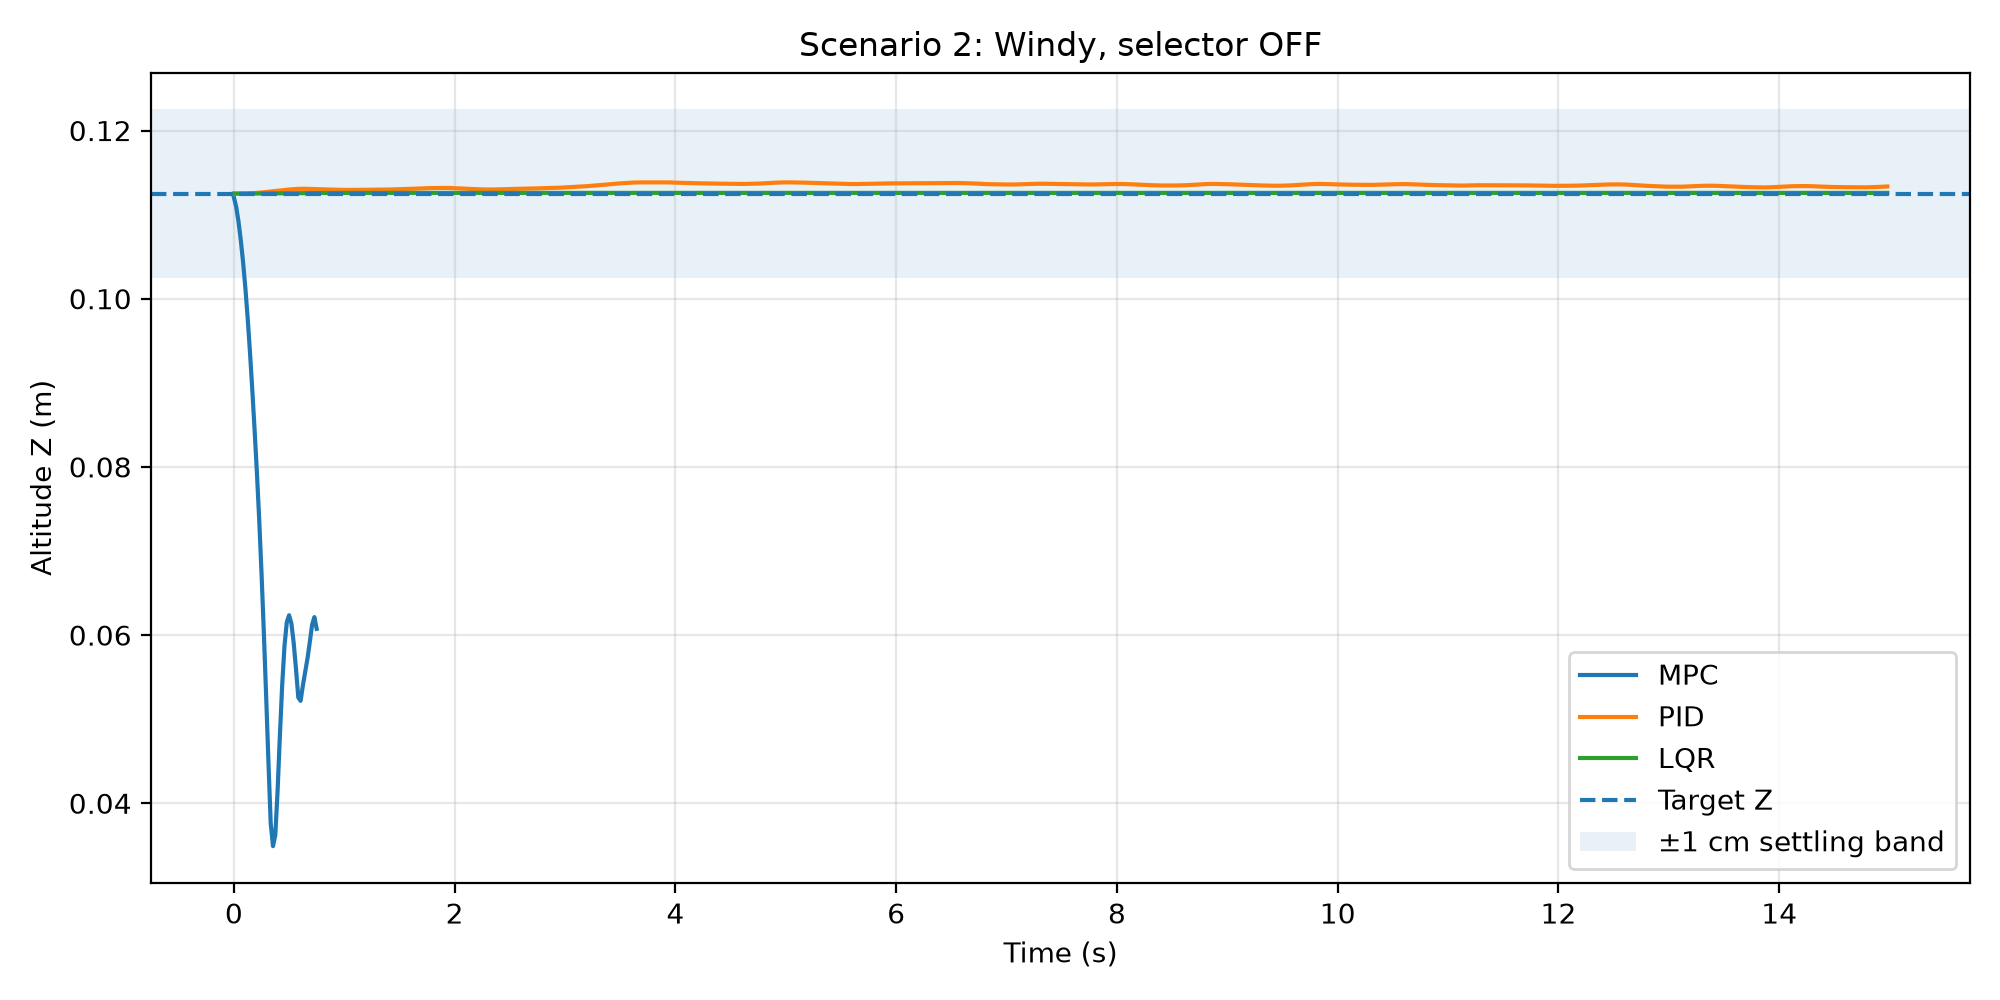
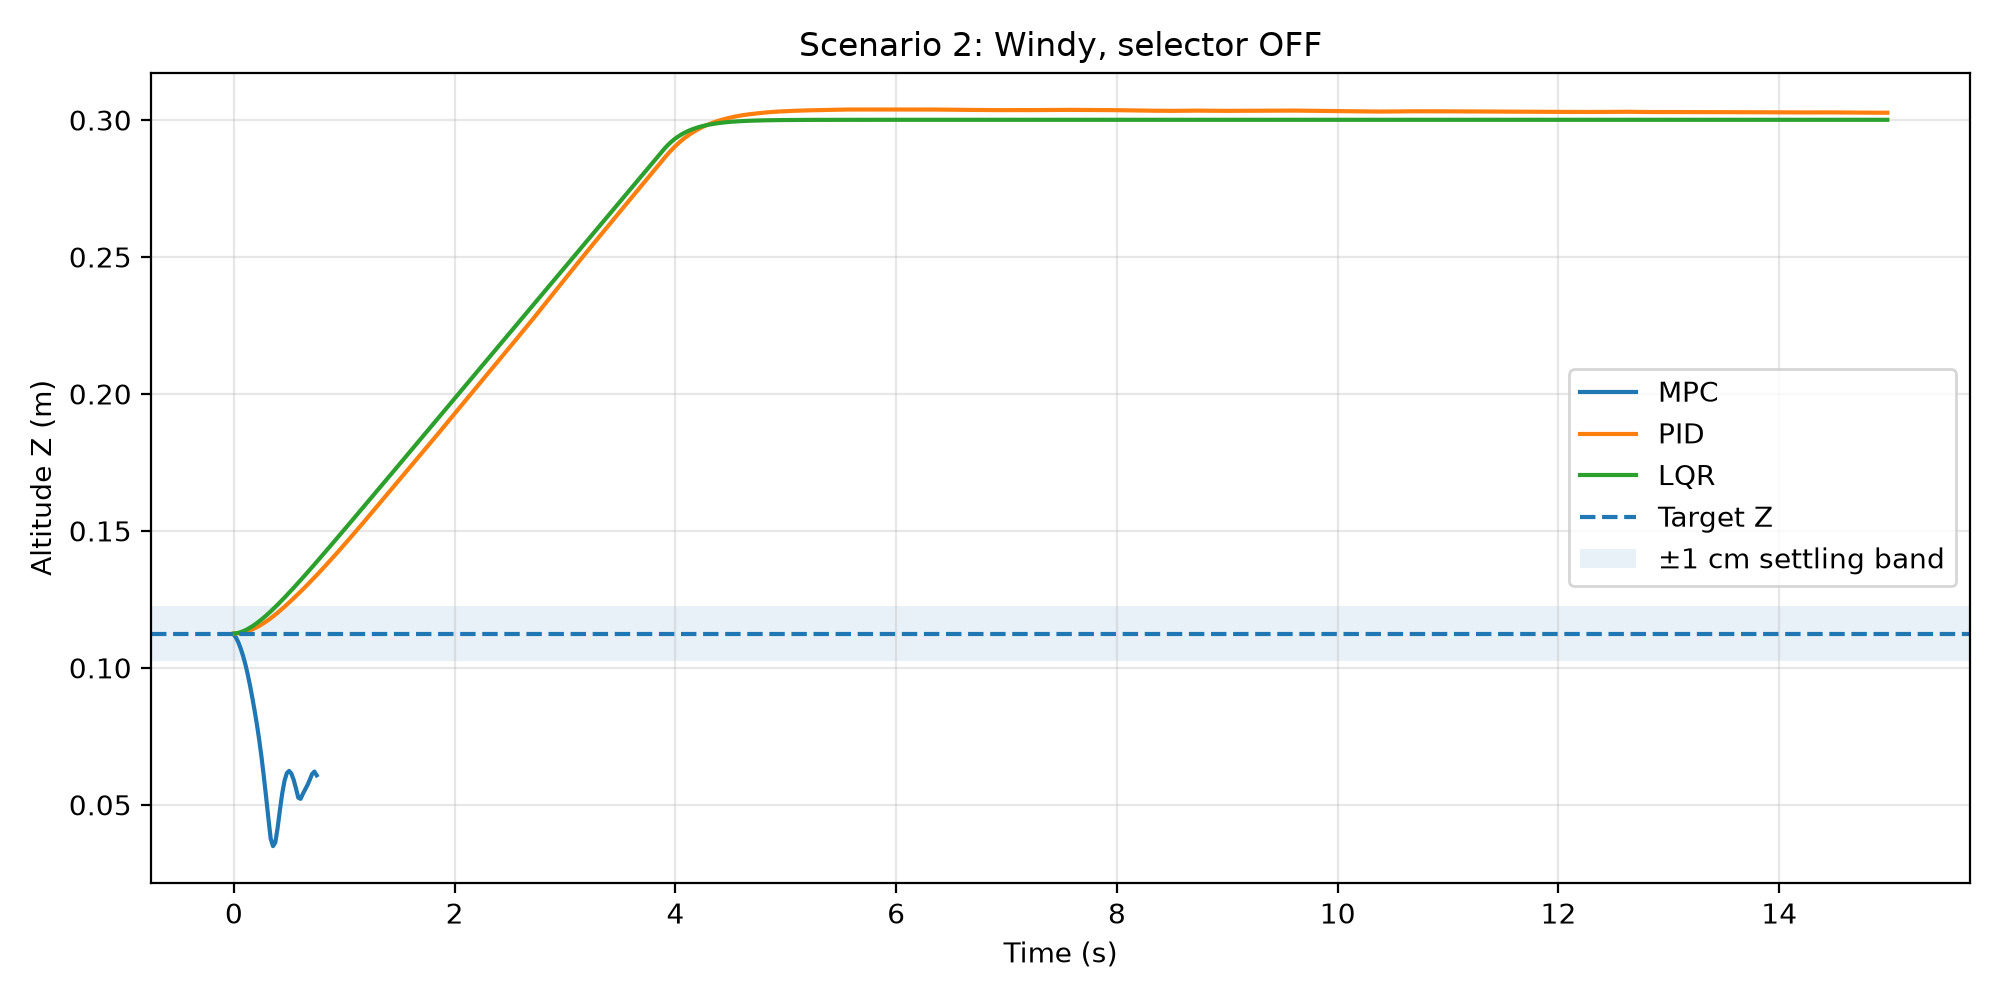
Regenerate final metrics using corrected PID/LQR data (0.3m target fix), and clarify findings README: isolated testing confirms MPC instability is independent of disturbances or climb targets, not just a failure to survive long enough to reach a trigger time. Headline result unchanged and now confir

diff --git a/results/analysis/README.md b/results/analysis/README.md
@@ -58,3 +58,5 @@ Across every metric and every scenario, PID or LQR wins
 (`best_controller_summary_final.csv`) — Koopman-MPC does not win a single
 metric in any scenario, and does not survive any scenario to completion.
 `completion_rate_comparison.png` is the clearest single figure for this.
+## Update following direct isolation testing
+Further isolated testing (holding a fixed hover target with zero commanded climb and zero disturbance applied) confirmed that the MPC instability is not specific to reaching disturbance trigger times or climbing to target height. The controller becomes unstable even during plain, undisturbed hovering, indicating a fundamental limitation in the current Koopman lifting function's orientation representation (Euler angles and quaternions), consistent with known singularity issues described in related published work (Narayanan et al., SE(3) Koopman-MPC, IFAC-PapersOnLine, 2023). This is a more precise characterization than 'MPC does not survive long enough to reach the disturbance' -- MPC does not survive independent of any disturbance at all.
